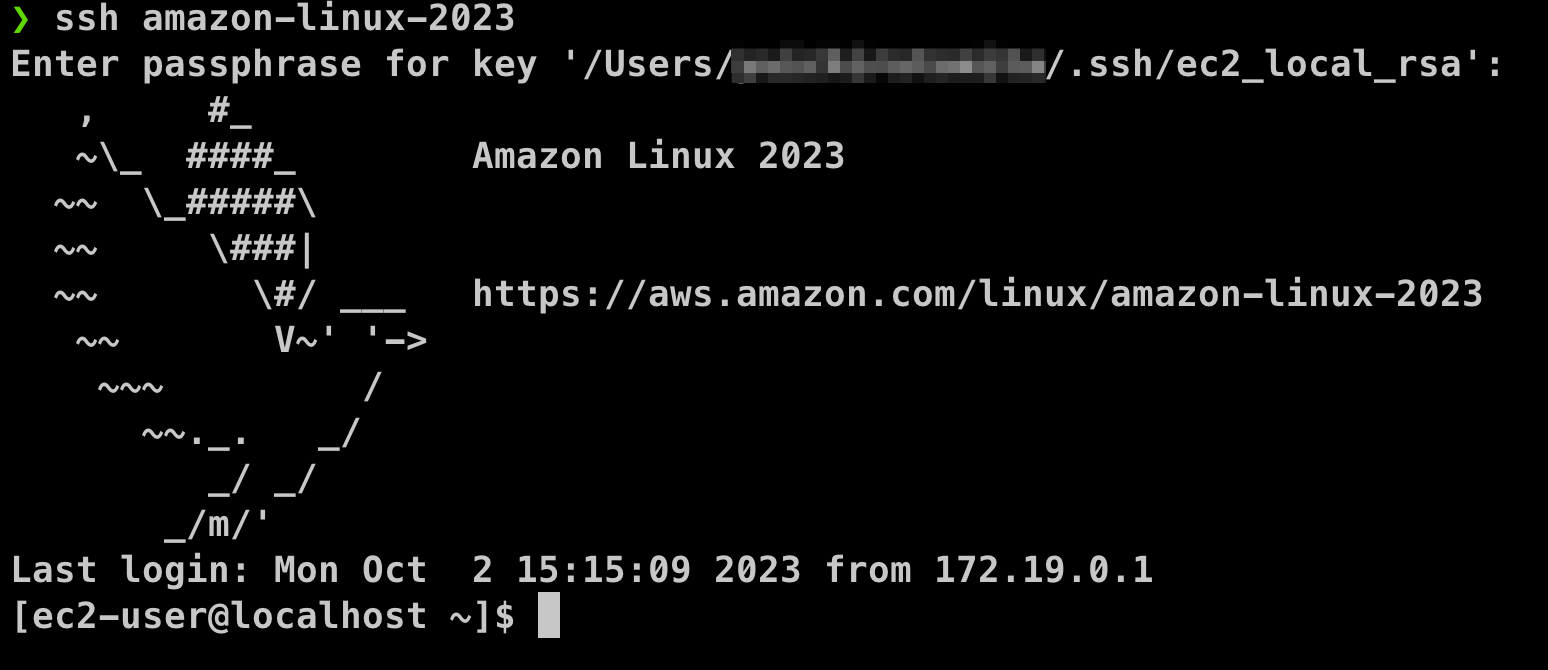
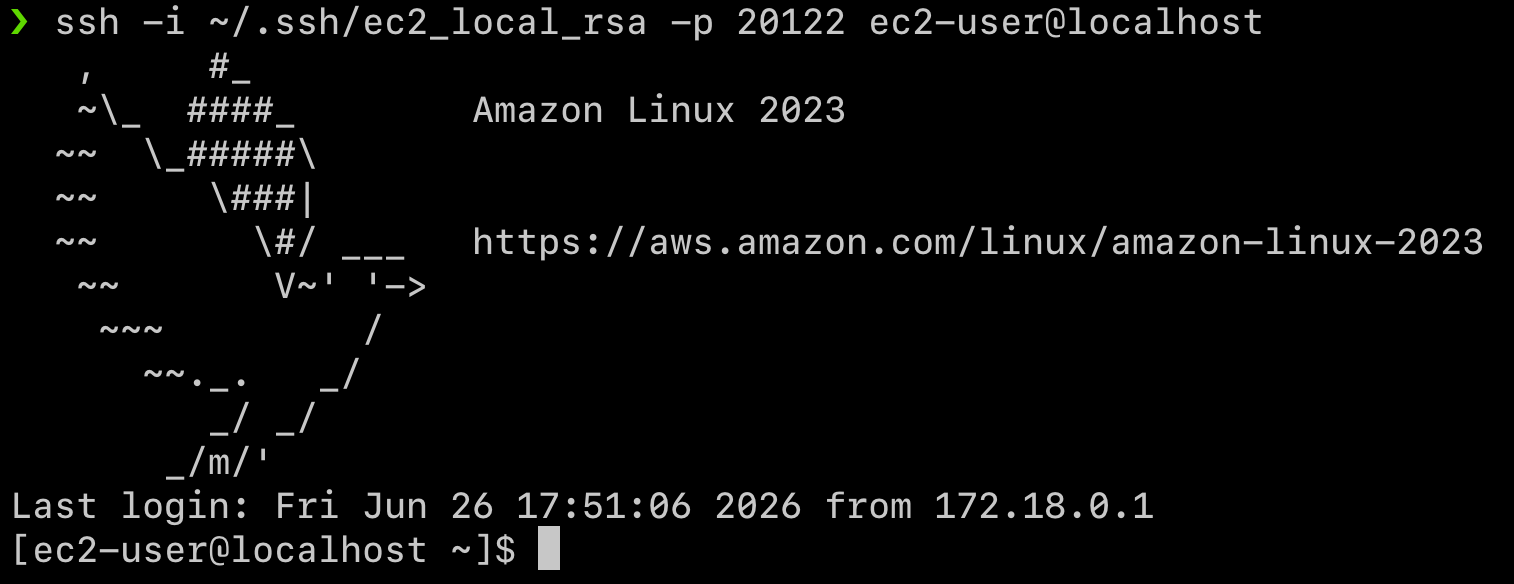
Merge pull request #46 from Jpsern/feat/apolition-amazon-linux-2
Feat/apolition amazon linux 2

Pull request: Feat/apolition amazon linux 2
# Issue
close #45

diff --git a/docs/setup-ssh.md b/docs/setup-ssh.md
@@ -1,37 +1,35 @@
 # SSH 接続用設定
 
-Amazon Linux 2 と Amazon Linux 2023 用で異なる部分は記述を分けています。それ以外は共通です。
+Amazon Linux 2023 用の設定です。
 
-## 鍵ペアの作成
+## SSH接続用設定の一括実行
+次のコマンドで「鍵ペアの作成」「公開鍵のコピー」「公開鍵の権限設定」をまとめて実行できます。
+```sh
+make setup-ssh
+```
+
+なお、既存の `~/.ssh/ec2_local_rsa` がある場合は再作成しません。
+
+## 一括実行の詳細
+前述にて一括実行している内容の説明です。不要であれば読み飛ばしてください。
+
+### 鍵ペアの作成
 `~/.ssh/ec2_local_rsa` は任意の名前でOK。ここではこのパス、ファイル名を前提に話を進めます。
 ```
 ssh-keygen -t rsa -f ~/.ssh/ec2_local_rsa
 ```
 
-## コンテナに公開鍵をコピー
+### コンテナに公開鍵をコピー
 
 テキストをコピーして、コンテナ内で自分で authorized_keys を作ってもいいですが面倒なのでコピーで済ませます。
-
-### amazon-linux-2
-```sh
-docker compose cp ~/.ssh/ec2_local_rsa.pub amazon-linux-2:/home/ec2-user/.ssh/authorized_keys
-```
-
-### amazon-linux-2023
 ```sh
 docker compose cp ~/.ssh/ec2_local_rsa.pub amazon-linux-2023:/home/ec2-user/.ssh/authorized_keys
 ```
 
-## 公開鍵の権限を変更
+### 公開鍵の権限を変更
 
 コンテナにログイン。
 
-### Amazon Linux 2
-```sh
-make aml2
-```
-
-### Amazon Linux 2023
 ```sh
 make aml2023
 ```
@@ -44,19 +42,6 @@ sudo chmod 600 ~/.ssh/authorized_keys && sudo chown ec2-user:ec2-user ~/.ssh/aut
 ## 接続
 
 下記のコマンドを実行して接続できればOKです。
-
-### Amazon Linux 2
-```sh
-ssh -i ~/.ssh/ec2_local_rsa -p 20022 ec2-user@localhost
-```
-```
-
-       __|  __|_  )
-       _|  (     /   Amazon Linux 2 AMI
-      ___|\___|___|
-
-https://aws.amazon.com/amazon-linux-2/
-```
 
 ### Amazon Linux 2023
 ```sh
@@ -73,22 +58,15 @@ ssh -i ~/.ssh/ec2_local_rsa -p 20122 ec2-user@localhost
       ~~._.   _/
          _/ _/
        _/m/'
-Last login: Mon Oct  2 15:15:09 2023 from 172.19.0.1
+Last login: Fri Jun 26 17:51:06 2026 from 172.18.0.1
+[ec2-user@localhost ~]$ 
 ```
 
 ## config
 
-面倒な人は `~/.ssh/config` に書いておけば楽です。
+面倒な人は `~/.ssh/config` に下記の内容を書いておけば `ssh amazon-linux-2023` だけで接続が可能です。
 
 ```ssh-config
-# Amazon Linux 2
-Host amazon-linux
-HostName localhost
-User ec2-user
-Port 20022
-IdentityFile ~/.ssh/ec2_local_rsa
-
-# Amazon Linux 2023
 Host amazon-linux-2023
 HostName localhost
 User ec2-user

diff --git a/README.md b/README.md
@@ -1,7 +1,6 @@
 # EC2-local
 [![Lint Dockerfile](https://github.com/Jpsern/ec2-local/actions/workflows/hadolint.yml/badge.svg)](https://github.com/Jpsern/ec2-local/actions/workflows/hadolint.yml)
 
-![](/docs/images/ssh.png)
 ![](/docs/images/ssh-al2023.png)
 
 VM感覚で使えるローカル用のEC2を作成することができます。
@@ -28,7 +27,7 @@ TARGETS
   rebuild              コンテナ作り直し
   up                   コンテナ起動
   restart              コンテナ再起動
-  aml2                 amazon-linux-2 コンテナにログイン
+  setup-ssh            SSH鍵の作成・公開鍵コピー・権限設定
   aml2023              amazon-linux-2023 コンテナにログイン
 ```
 